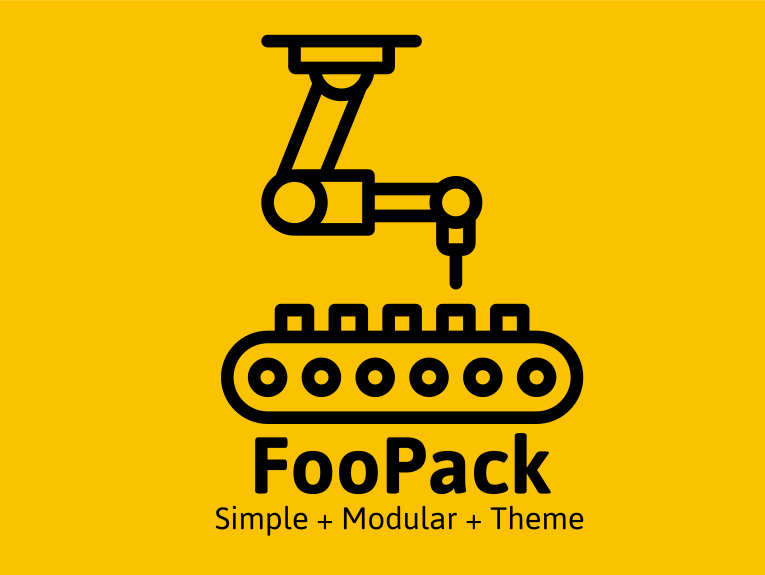
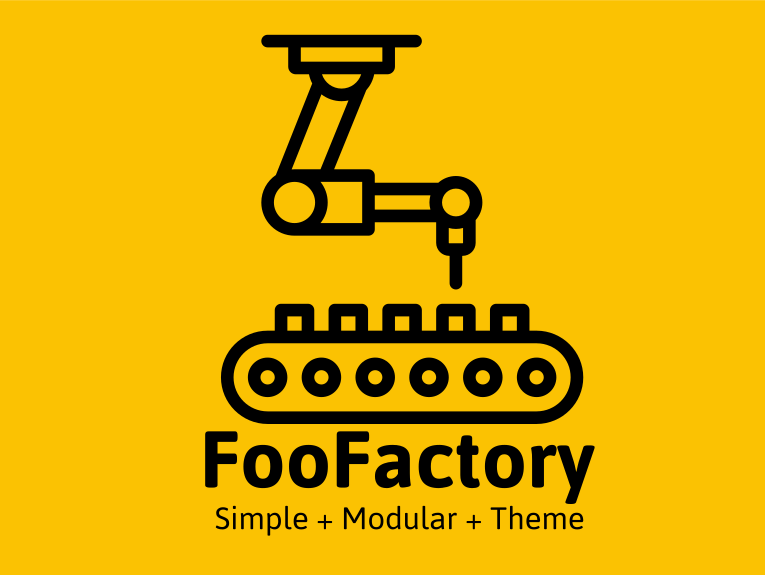
Updates and Default Styles

Changed region(s): [[0.2706, 0.7391, 0.7817, 0.887]]

diff --git a/style.css b/style.css
@@ -1,9 +1,10 @@
 /**!
-Theme Name: FooPack
-Description: A theme to demonstrate simplest implementation of Webpack
-Author: Alexander King
+Theme Name: Foofactory
+Description: a wordpress theme using ACF, Webpack and Sass
+this theme/builder works in conjunction with Parcel
+Author: Alexander King & Hector Nuvero
 Version: 1.0
-Text Domain: stagpack
+Text Domain: foofactory
 */
 
 a.acf-icon.-minus.small {

diff --git a/assets/scss/template/_header.scss b/assets/scss/template/_header.scss
@@ -39,10 +39,9 @@ nav.nav-primary {
 	}
 }
 }
-#navbar-main {
+header.banner {
 	margin: 0;
 	padding-top:1em;
 	padding-bottom:1em;
-	background:#fff;
-
+	background:$color2;
 }

diff --git a/assets/scss/template/_footer.scss b/assets/scss/template/_footer.scss
@@ -1,0 +1,6 @@
+#footer {
+  @extend .padding-4-top;
+  @extend .padding-4-bottom;
+  background: #000;
+  color:#fff;
+}

diff --git a/components/molecule/related-items.php b/components/molecule/related-items.php
@@ -1,14 +1,24 @@
 <div class="molecule related-items">
 	<?php
-		 // WP_Query arguments
-	 $args = array (
-		 "post_type" => "any",
-		 "post__in" => $vars['website_items'],
-		 "orderby" => "post__in",
-	 );
-	 $club_count = 0;
+	$vars['args'] = array (
+		"post_type" => "any",
+		"post__in" => $vars['website_items'],
+		"orderby" => "post__in",
+	);
+	 ?>
+	<?php if($vars['feed_type']){
+			// WP_Query arguments
+				$vars['args'] = array (
+				'post_type'              => array( $vars['feed_type'] ),
+				'posts_per_page'                  => $vars['number_of_posts'],
+				'posts_per_archive_page' => $vars['number_of_posts'],
+				'order'                  => 'DESC',
+			);
+	} ?>
+	<?php
+
 	 // The Query
-	 $query = new WP_Query( $args );
+	 $query = new WP_Query( $vars['args'] );
 	 // The Loop
 	 if ( $query->have_posts() ) {
 		 while ( $query->have_posts() ) {

diff --git a/README.md b/README.md
@@ -1,2 +1,3 @@
-# FooPack
+# FooFactory
 a wordpress theme using ACF, Webpack and Sass
+this theme/builder works in conjunction with Parcel
